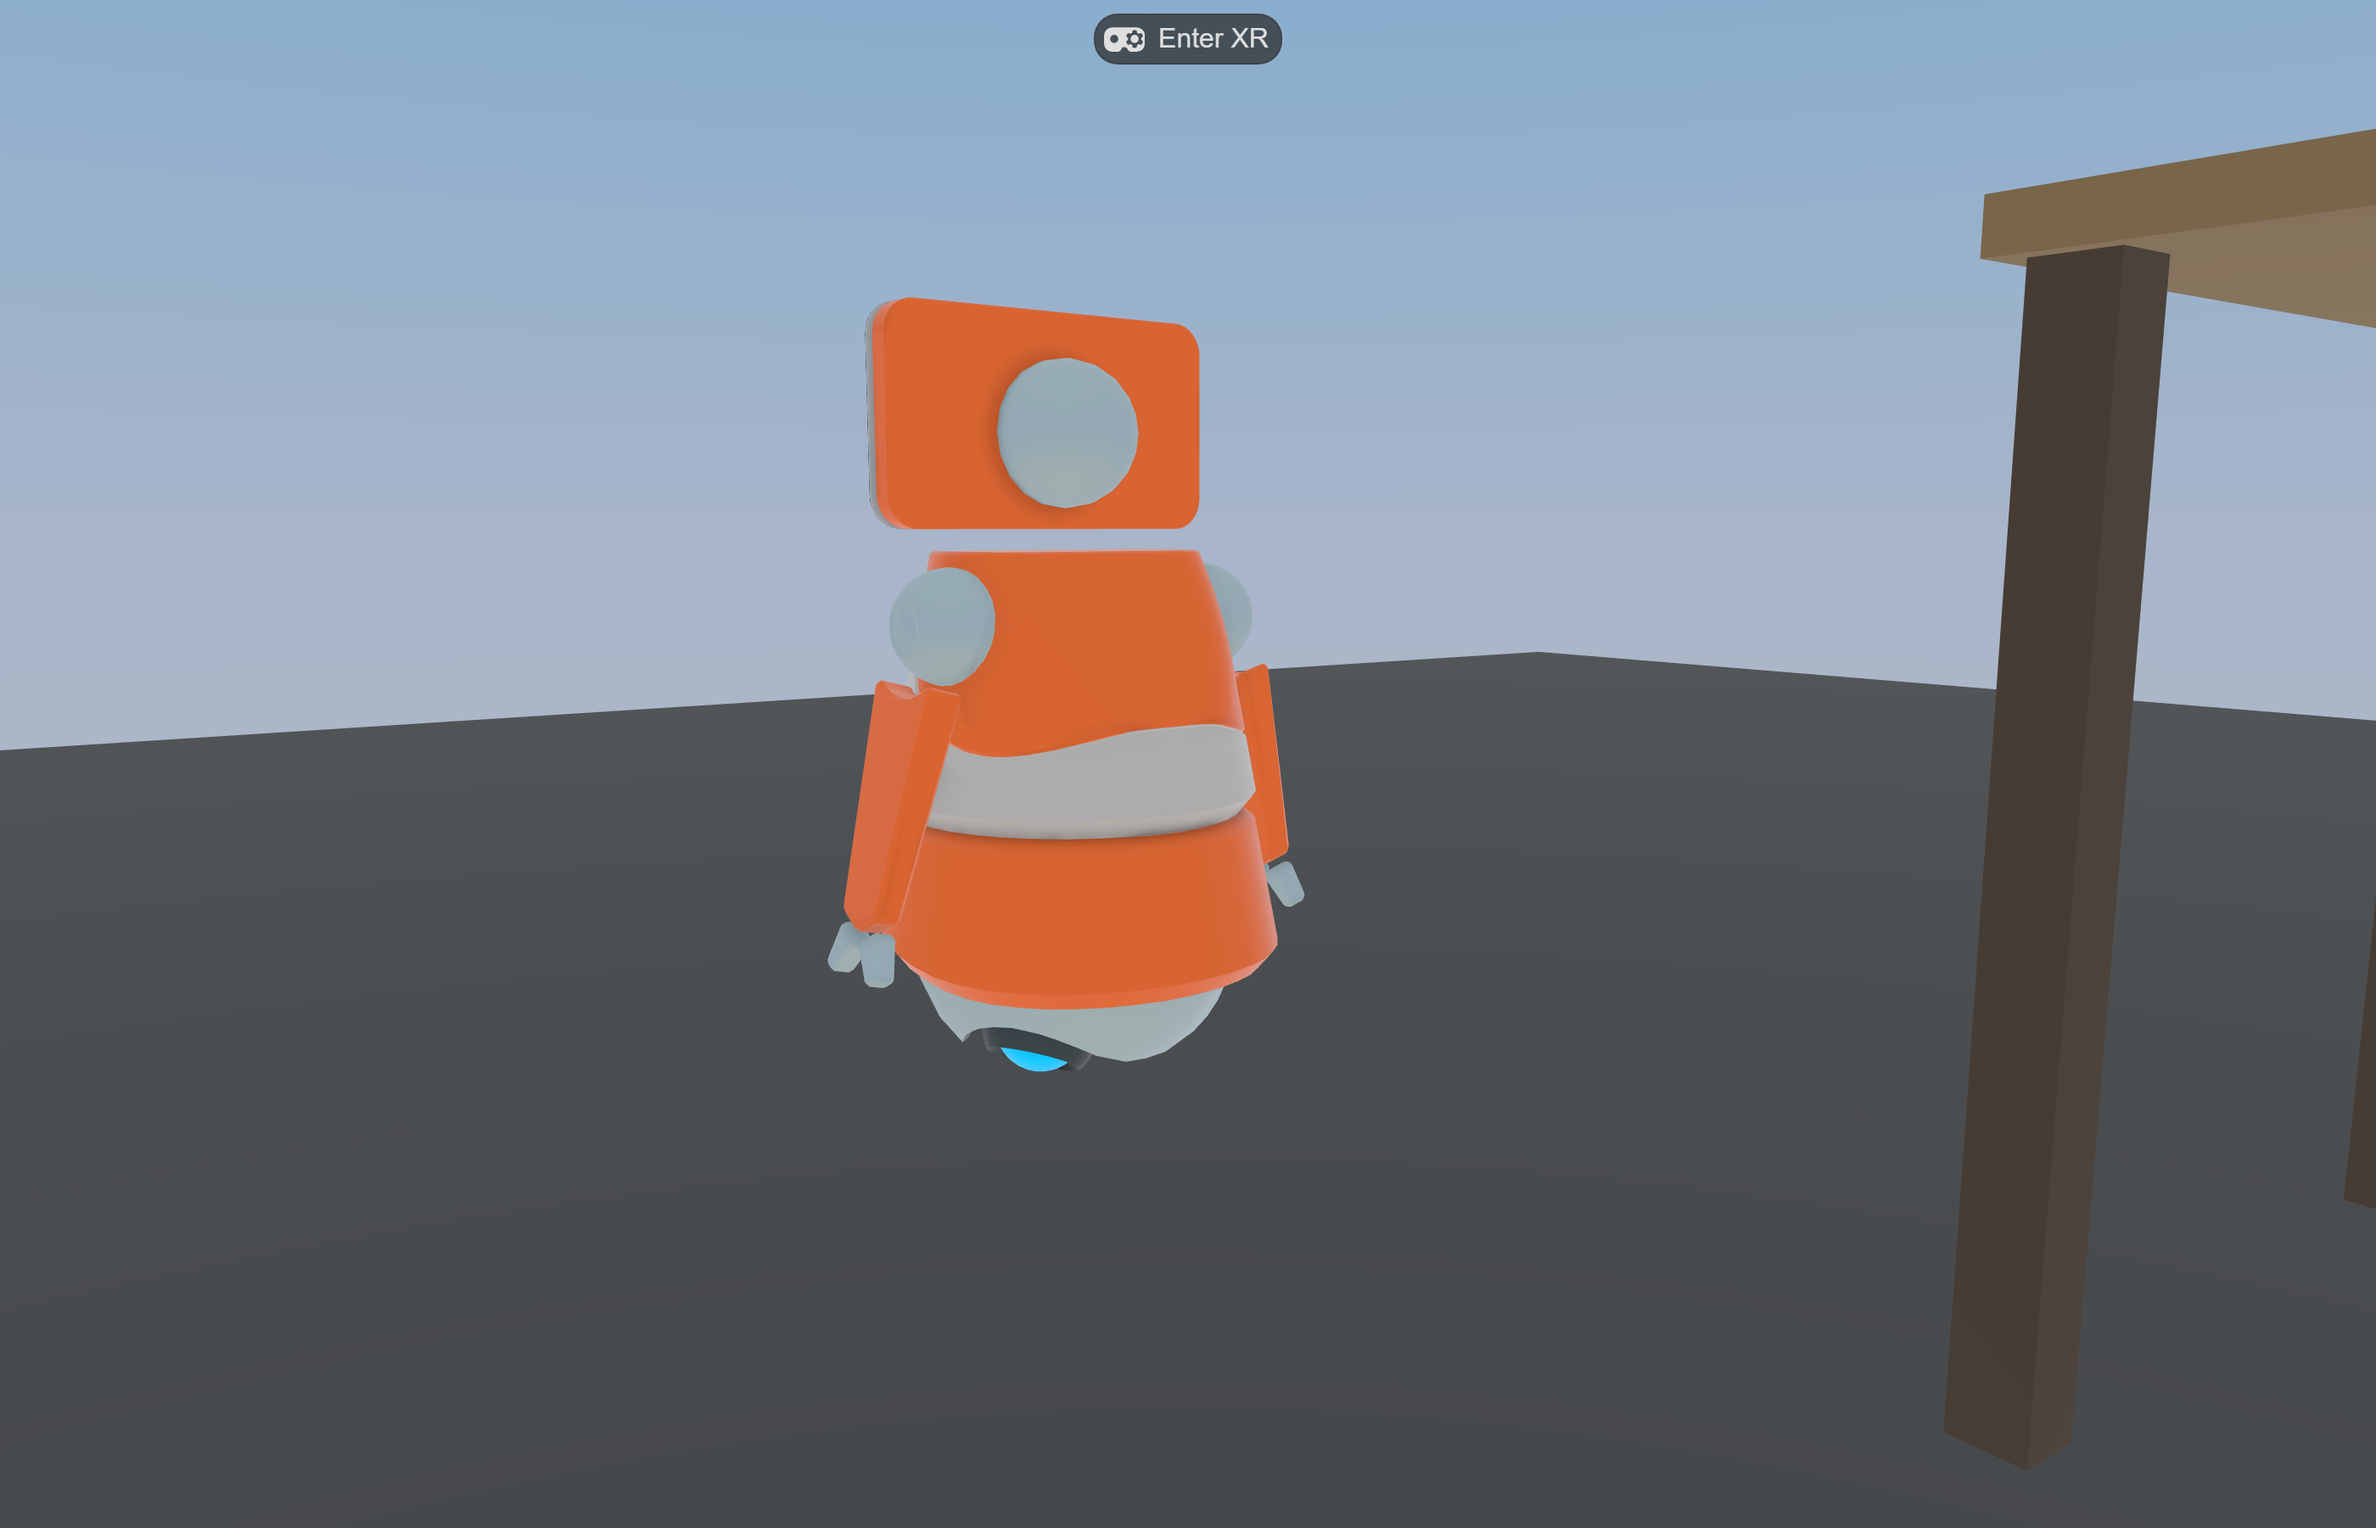
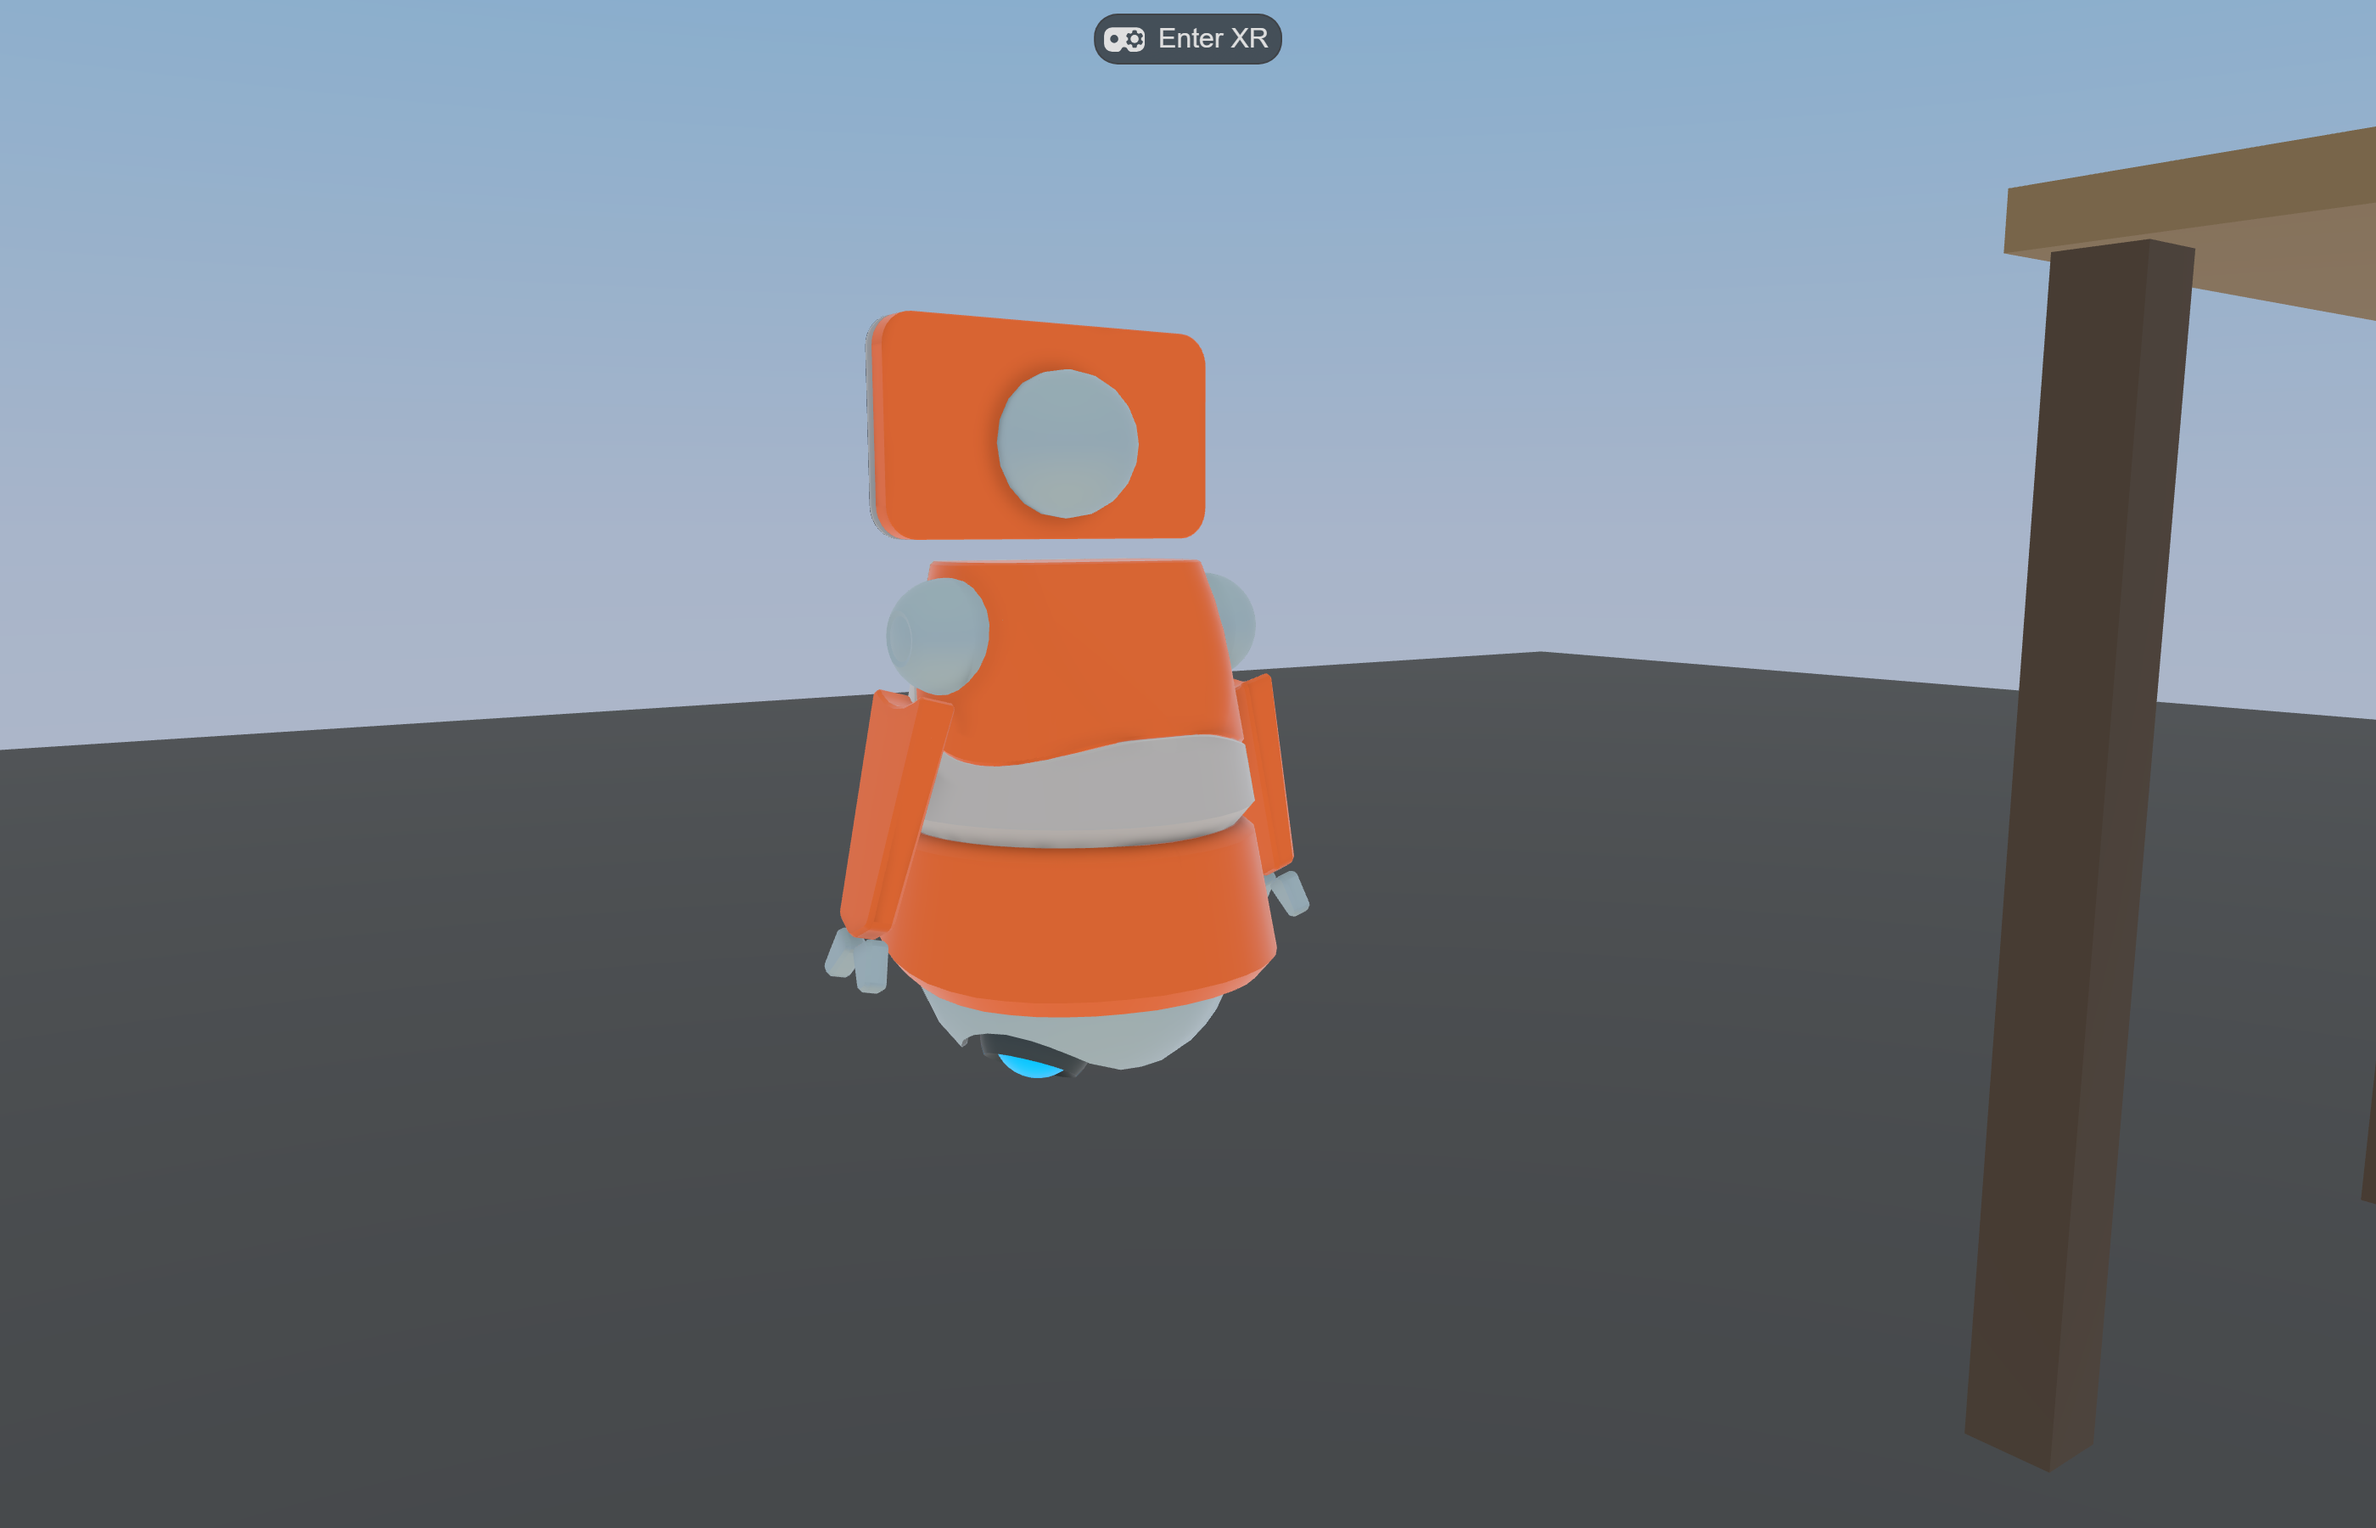
docs: add hover-preview, in-progress, and wands screenshots
Three new activity captures plus a refined robot shot:

- in-progress.png — partial assembly (battery + medium wire snapped,
  LED still in tray). Demonstrates SnapSystem mid-flow before circuit
  closure.
- hover-preview.png — held LED hovering near target sockets shows the
  green markers from HoverPreviewSystem. Captured by directly adding
  the entity to heldEntities and positioning it within snap threshold
  but offset by one column so the markers aren't occluded.
- wands.png — XR session entered programmatically via IWER's
  RemoteControlInterface (window.IWER_DEVICE.remote.acceptSession()
  + dispatch("set_transform", ...) for headset and both controllers).
  Captured from IWER's spectator view; "Remote Control Active" overlay
  cropped via Playwright clip option.
- robot.png — bumped robot scale from 0.02 (≈3 cm dot) to 1.0 so the
  character is human-readable.

screenshot.mjs gained a reusable installSnapHelpers IIFE that injects
socket-position math + entity-finder helpers into the page once per
context, used by the assembled, hover-preview, and in-progress shots.

src/index.ts exposes additional debug handles on window.__VM
(HoverPreviewSystem, Follower, hud entity) for the screenshot
controller; still gated by import.meta.env.DEV.

README gallery expanded to a 5-row table covering the new activity
images.

diff --git a/src/index.ts b/src/index.ts
@@ -168,7 +168,7 @@ World.create(document.getElementById("scene-container") as HTMLDivElement, {
     }
   });
 
-  world
+  const hudEntity = world
     .createTransformEntity()
     .addComponent(PanelUI, {
       config: "./ui/hud.json",
@@ -224,7 +224,10 @@ World.create(document.getElementById("scene-container") as HTMLDivElement, {
     (window as Window & { __VM?: unknown }).__VM = {
       world,
       SnapSystem,
+      HoverPreviewSystem,
+      Follower,
       robot: robotWrapper,
+      hud: hudEntity,
       components: {
         Snappable,
         SnapTarget,

diff --git a/README.md b/README.md
@@ -37,8 +37,15 @@ See [`docs/mvp-scope.md`](docs/mvp-scope.md) for the full Phase 1 / Phase 2 scop
 <td width="50%"><img src="docs/images/breadboard.png" alt="Breadboard with placement guides" /><br/><sub>Breadboard with transparent placement guides — ghosts show the target circuit. Toggle with <kbd>G</kbd>.</sub></td>
 </tr>
 <tr>
+<td width="50%"><img src="docs/images/in-progress.png" alt="Mid-assembly state" /><br/><sub>Mid-assembly: battery + medium wire snapped, LED still in the tray. Circuit not yet closed.</sub></td>
+<td width="50%"><img src="docs/images/hover-preview.png" alt="Hover preview markers" /><br/><sub><code>HoverPreviewSystem</code> — green socket markers light up while a part is held within 27 mm of two valid sockets.</sub></td>
+</tr>
+<tr>
 <td width="50%"><img src="docs/images/assembled.png" alt="Assembled circuit, LED lit" /><br/><sub>Assembled target circuit. <code>CircuitEvalSystem</code> closes the loop and <code>LedState.lit</code> flips → red LED glows.</sub></td>
-<td width="50%"><img src="docs/images/robot.png" alt="Idle robot character" /><br/><sub>Idle robot character walks a slow circle next to the workspace (procedural — body bobs, looks at direction of motion).</sub></td>
+<td width="50%"><img src="docs/images/wands.png" alt="Controller wands in XR session" /><br/><sub>Controller wands visible after entering an XR session (via IWER's <code>RemoteControlInterface</code>). Spectator-style 3rd-person view.</sub></td>
+</tr>
+<tr>
+<td colspan="2" align="center"><img src="docs/images/robot.png" alt="Idle robot character" width="700" /><br/><sub>Idle robot character walks a slow circle next to the workspace (procedural — body bobs, looks at direction of motion).</sub></td>
 </tr>
 </table>
 
